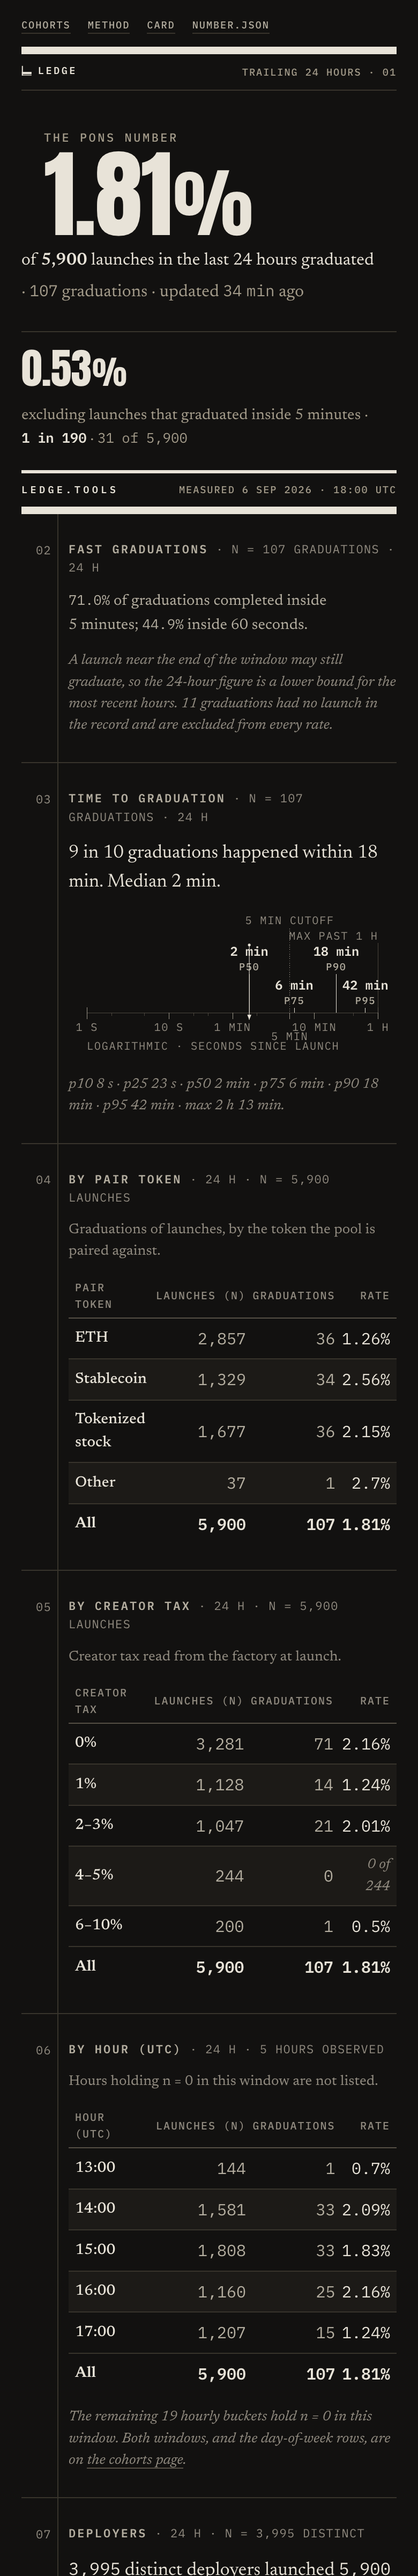
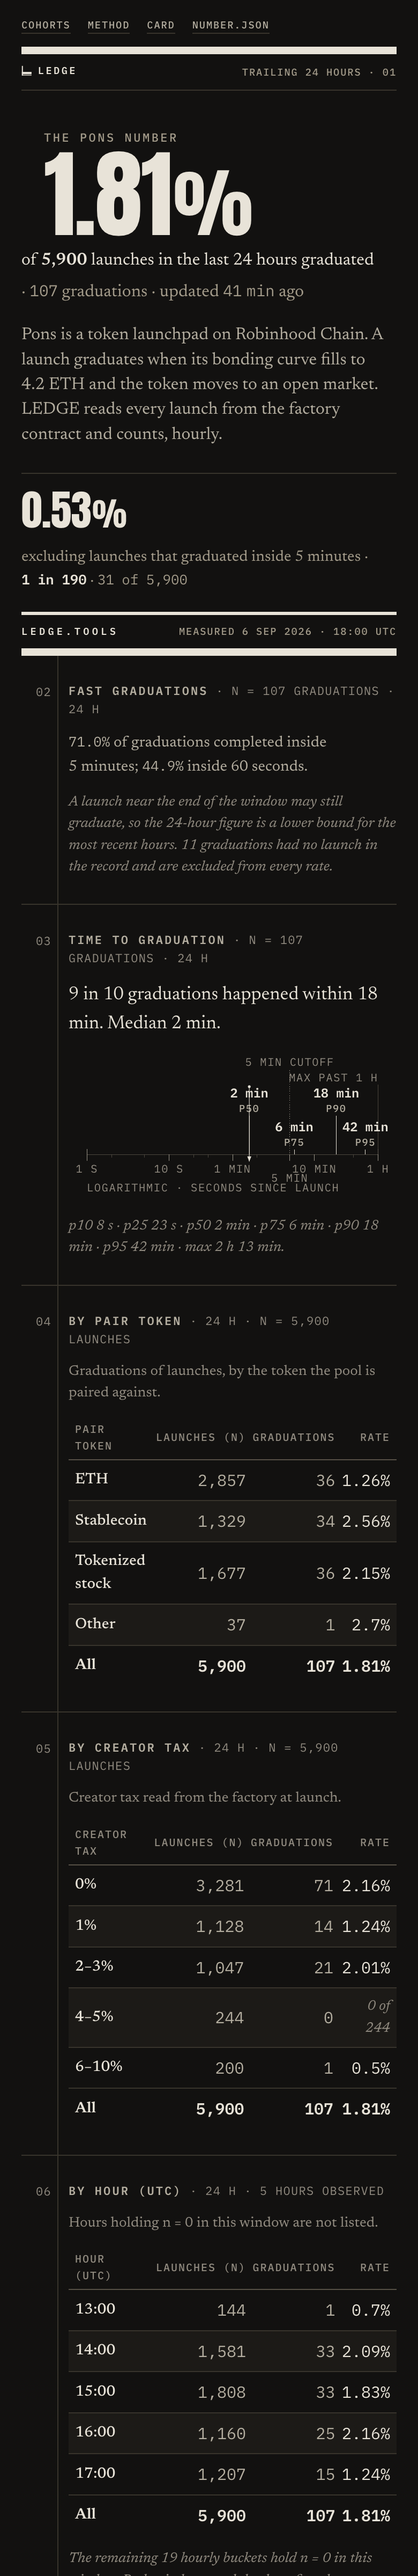
Fold: define what was measured

diff --git a/site/app/globals.css b/site/app/globals.css
@@ -341,6 +341,17 @@ a:focus-visible,
    centres the figure inside the measure: flush left, a figure narrower than
    the 7px heavy rules framing it reads as marooned in the corner rather than
    as the subject of the band. */
+/* The dek: the one sentence a cold visitor needs. Units for the instrument,
+   not a pitch. Indented with the kicker and the figure. */
+.dek {
+  font-family: var(--font-body);
+  font-size: var(--fs-body);
+  line-height: 1.45;
+  color: var(--ink-2);
+  max-width: 46ch;
+  margin: var(--s-4) 0 0;
+  text-wrap: pretty;
+}
 .figure-block {
   margin-left: 6%;
 }

diff --git a/site/app/page.tsx b/site/app/page.tsx
@@ -80,6 +80,11 @@ export default function Home(): ReactElement {
               <Age crawledAt={crawledAt} staleAfterSeconds={staleAfterSeconds} />
             </span>
           </p>
+          <p className="dek">
+            Pons is a token launchpad on Robinhood Chain. A launch graduates when its bonding
+            curve fills to 4.2&nbsp;ETH and the token moves to an open market. LEDGE reads every
+            launch from the factory contract and counts, hourly.
+          </p>
         </div>
 
         <div className="rule-hair fold-rule" />
